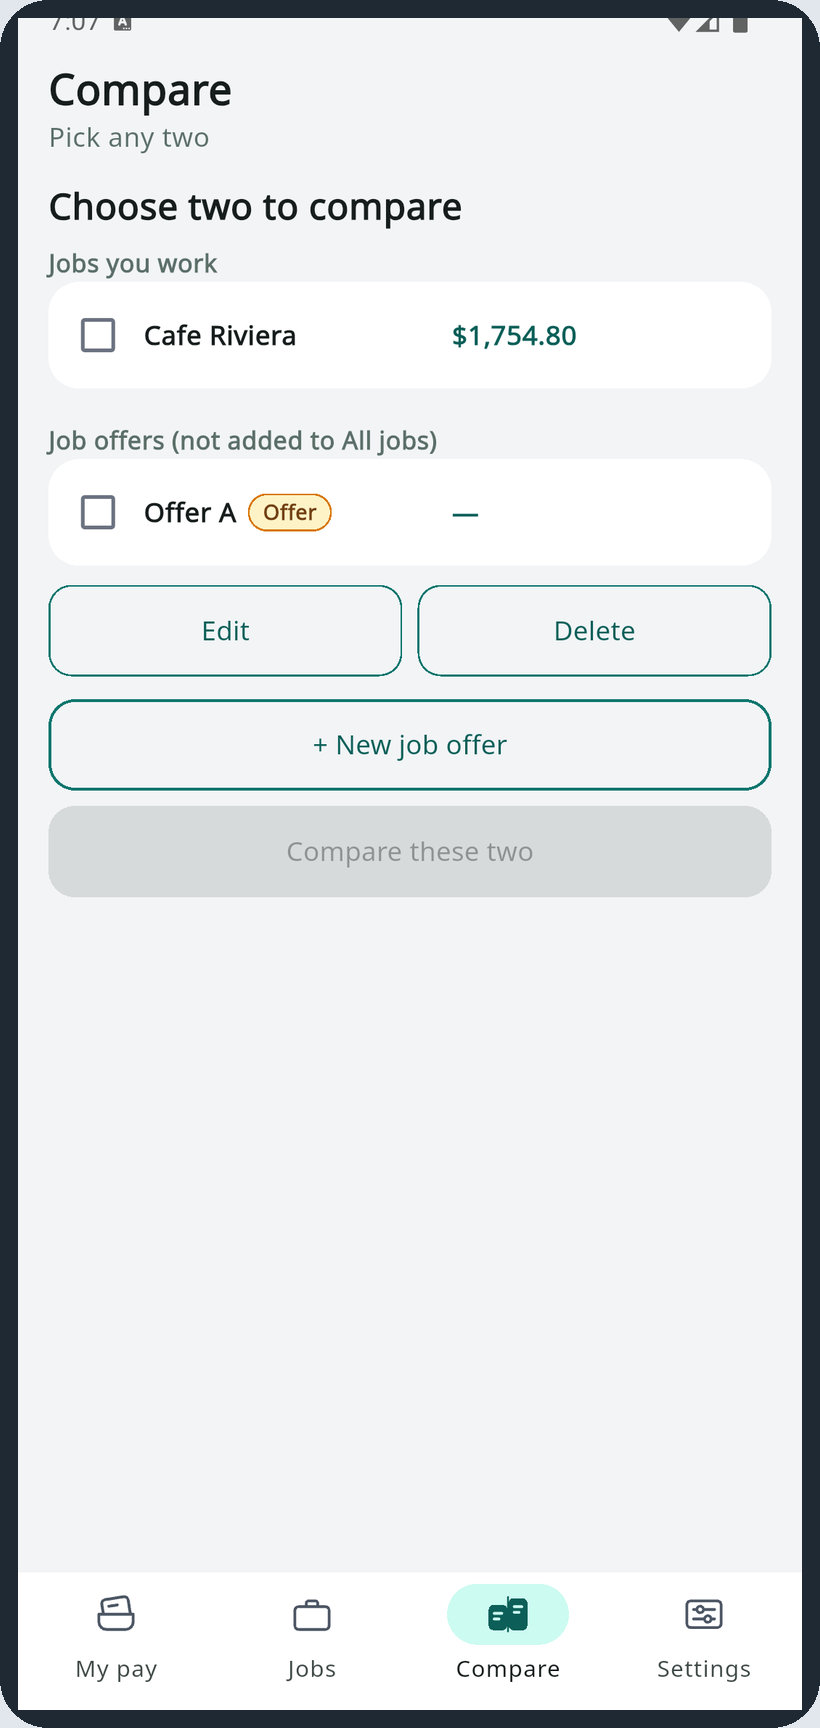
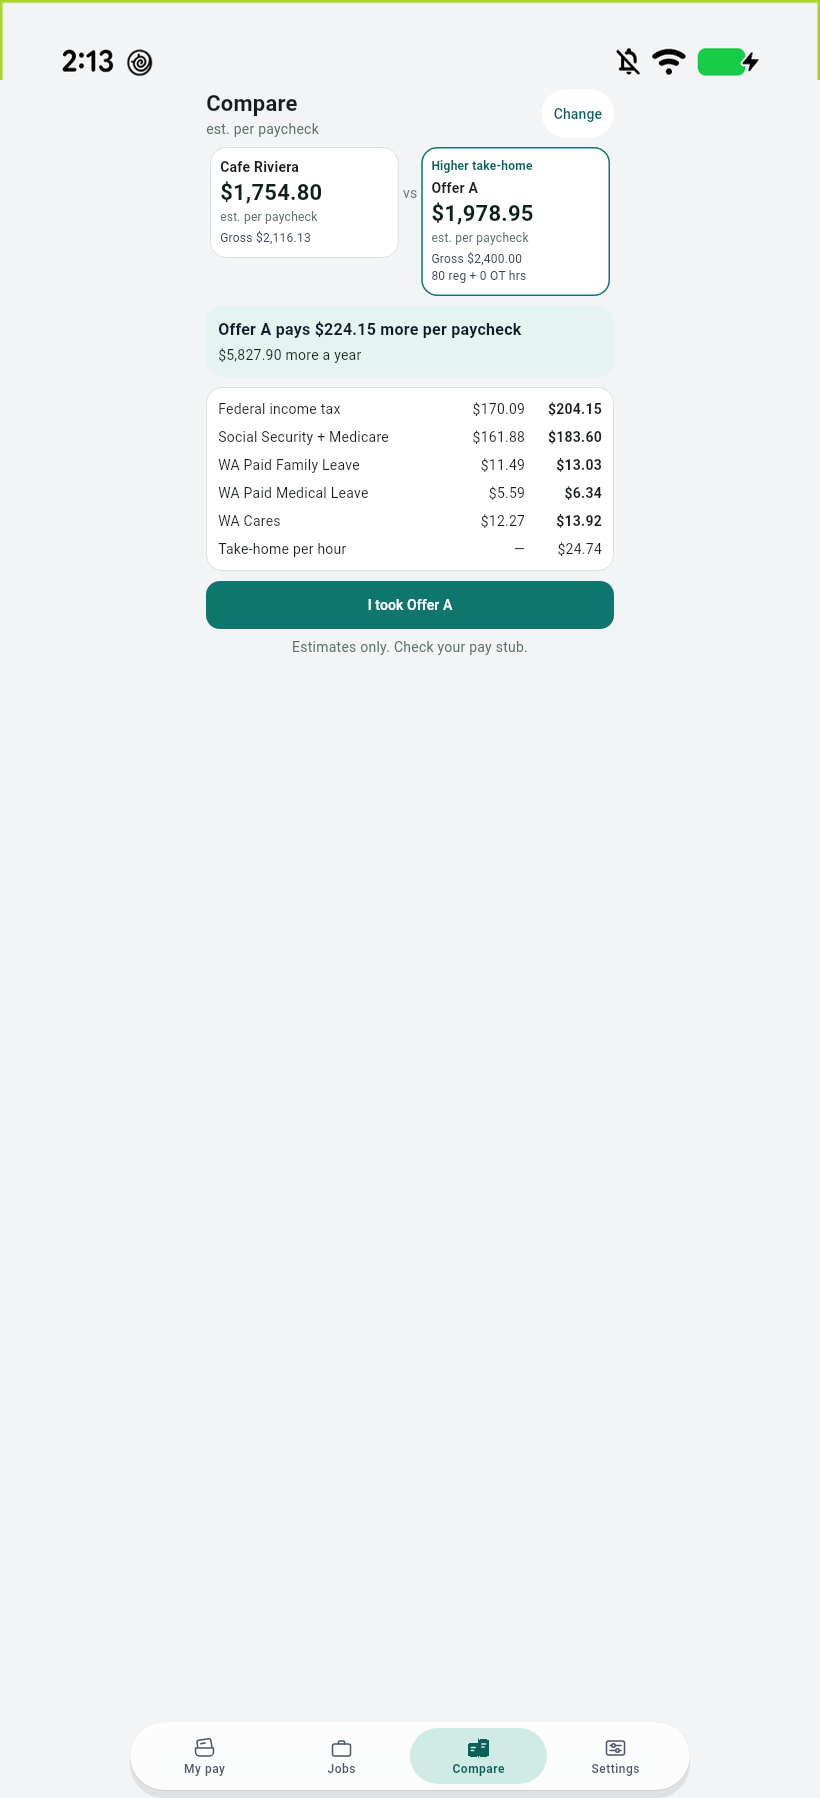
Give Compare its own spotlight and add a calculator button.
The lone Compare card sat in a leftover 3-column grid with a mint
icon tile. Turn it into a feature spotlight with a real Compare
capture from app main eb0f0a3, drop the unused pillar styles, and
add the same Try the free calculator button to the free-for-a-limited-time
band.

diff --git a/index.html b/index.html
@@ -8,7 +8,7 @@
 <meta name="description" content="Estimate your take-home pay for every job: hourly or salary, overtime, add-ons. US (all 50 states) and Australia. By Tun Labs." />
 <link rel="icon" type="image/svg+xml" href="assets/favicon.svg" />
 <link rel="icon" type="image/png" href="assets/icon.png" />
-<link rel="stylesheet" href="assets/apple.css?v=c7265b3c13" />
+<link rel="stylesheet" href="assets/apple.css?v=168256ac7d" />
 <script>if(location.hostname==="paycheckpocket.com"&&/\/index\.html$/i.test(location.pathname)){location.replace("/"+location.search+location.hash);}</script>
 </head>
 <body>
@@ -124,16 +124,14 @@
       </div>
     </section>
 
-    <section class="pillars">
-      <div class="wrap">
-        <h2>Built around how you get paid</h2>
-        <p class="lead">A few essentials — not a wall of feature cards.</p>
-        <div class="pillar-row">
-          <article class="pillar">
-            <div class="pillar-mark">⇄</div>
-            <h3>Compare offers</h3>
-            <p>Put two jobs or a new offer side by side and see which pays more per paycheck.</p>
-          </article>
+    <section class="spotlight flip">
+      <div class="wrap-wide spot-grid">
+        <div class="spot-shot">
+          <div class="phone phone-full"><div class="screen"><img src="assets/shot-compare.png" width="410" height="864" alt="Compare: Cafe Riviera and Offer A side by side, with Offer A showing a higher estimated take-home" /></div></div>
+        </div>
+        <div class="spot-copy">
+          <h2>Compare offers</h2>
+          <p>Put two jobs or a new offer side by side and see which pays more per paycheck.</p>
         </div>
       </div>
     </section>
@@ -142,6 +140,9 @@
       <div class="wrap">
         <div class="head">
           <h2>Free for a limited time. Every feature included.</h2>
+          <div class="pricing-cta">
+            <a class="btn-primary lg" href="app/">Try the free calculator</a>
+          </div>
         </div>
       </div>
     </section>

diff --git a/assets/apple.css b/assets/apple.css
@@ -472,61 +472,17 @@ button { font-family: inherit; }
   line-height: 1.42;
 }
 
-/* —— Quiet feature chips (home, sparse — not 8-card grid) —— */
-.pillars {
-  padding: 56px 0 24px;
-  text-align: center;
-}
-.pillars h2 {
-  margin: 0 auto 8px;
-  font-size: clamp(28px, 4vw, 40px);
-  letter-spacing: -0.025em;
-  font-weight: 700;
-  color: var(--ink);
-}
-.pillars .lead {
-  margin: 0 auto 40px;
-  color: var(--muted-strong);
-  font-size: 17px;
-  max-width: 32em;
-}
-.pillar-row {
-  display: grid;
-  gap: 28px;
-  text-align: left;
-}
-@media (min-width: 760px) {
-  .pillar-row { grid-template-columns: repeat(3, 1fr); gap: 36px; }
-}
-.pillar h3 {
-  margin: 0 0 8px;
-  font-size: 21px;
-  letter-spacing: -0.02em;
-  font-weight: 600;
-  color: var(--ink);
-}
-.pillar p {
-  margin: 0;
-  font-size: 15px;
-  line-height: 1.47;
-  color: var(--muted-strong);
-}
-.pillar-mark {
-  width: 36px; height: 36px;
-  border-radius: 10px;
-  background: var(--mint);
-  color: var(--teal-deep);
-  display: grid; place-items: center;
-  font-size: 16px; font-weight: 700;
-  margin-bottom: 14px;
-}
-
 /* —— Pricing quiet —— */
 .pricing {
   padding: 80px 0 64px;
   background: var(--bg-white);
 }
-.pricing .head { text-align: center; margin-bottom: 40px; }
+.pricing .head { text-align: center; margin-bottom: 0; }
+.pricing-cta {
+  display: flex;
+  justify-content: center;
+  margin-top: 24px;
+}
 .pricing .head h2 {
   margin: 0 0 8px;
   font-size: clamp(28px, 4vw, 40px);

diff --git a/app/index.html b/app/index.html
@@ -49,8 +49,8 @@
     }
   </script>
 
-  <!-- Site styles live one level up, at /assets/apple.css?v=c7265b3c13. -->
-  <link rel="stylesheet" href="../assets/apple.css?v=c7265b3c13">
+  <!-- Site styles live one level up, at /assets/apple.css?v=168256ac7d. -->
+  <link rel="stylesheet" href="../assets/apple.css?v=168256ac7d">
   <style>
     /* The calculator view fills this host. Desktop height is set from Flutter
        so the site header, page, and footer scroll as one document. */
@@ -69,7 +69,7 @@
       margin: 0;
       min-height: 100dvh;
     }
-    /* Phone: slim apple.css?v=c7265b3c13 header + hamburger; hide footer; Flutter fills the rest. */
+    /* Phone: slim apple.css?v=168256ac7d header + hamburger; hide footer; Flutter fills the rest. */
     @media (max-width: 899px) {
       footer { display: none !important; }
       html, body { height: 100%; overflow: hidden; }

diff --git a/contact/index.html b/contact/index.html
@@ -8,7 +8,7 @@
 <link rel="canonical" href="https://paycheckpocket.com/contact/" />
 <link rel="icon" type="image/svg+xml" href="../assets/favicon.svg" />
 <link rel="icon" type="image/png" href="../assets/icon.png" />
-<link rel="stylesheet" href="../assets/apple.css?v=c7265b3c13" />
+<link rel="stylesheet" href="../assets/apple.css?v=168256ac7d" />
 </head>
 <body>
   <header class="nav">

diff --git a/privacy/index.html b/privacy/index.html
@@ -8,7 +8,7 @@
 <link rel="canonical" href="https://paycheckpocket.com/privacy/" />
 <link rel="icon" type="image/svg+xml" href="../assets/favicon.svg" />
 <link rel="icon" type="image/png" href="../assets/icon.png" />
-<link rel="stylesheet" href="../assets/apple.css?v=c7265b3c13" />
+<link rel="stylesheet" href="../assets/apple.css?v=168256ac7d" />
 </head>
 <body>
   <header class="nav">

diff --git a/about/index.html b/about/index.html
@@ -8,7 +8,7 @@
 <link rel="canonical" href="https://paycheckpocket.com/about/" />
 <link rel="icon" type="image/svg+xml" href="../assets/favicon.svg" />
 <link rel="icon" type="image/png" href="../assets/icon.png" />
-<link rel="stylesheet" href="../assets/apple.css?v=c7265b3c13" />
+<link rel="stylesheet" href="../assets/apple.css?v=168256ac7d" />
 </head>
 <body>
   <header class="nav">

diff --git a/CODEMAP.md b/CODEMAP.md
@@ -10,7 +10,7 @@ GitHub Pages at paycheckpocket.com. The calculator at `/app/` is a rebuilt Flutt
 - `assets/apple.css` — locked site-apple-v1 tokens, frosted nav, Pixel phone frames, footer
 - `assets/nav.js` — phone hamburger (<860px)
 - `assets/pricing-region.js` — unused after the paid price grid was removed
-- `assets/shot-mypay-a.png`, `shot-mypay-b.png`, `shot-breakdown.png`, `shot-salary-form.png`, `shot-welcome.png` — current-app captures @ 820×1798 (Pixel status, ads off). Other `shot-*.png` unchanged.
+- `assets/shot-mypay-a.png`, `shot-mypay-b.png`, `shot-breakdown.png`, `shot-salary-form.png`, `shot-welcome.png`, `shot-compare.png` — current-app captures @ 820×1798 (Pixel status, ads off). Other `shot-*.png` unchanged.
 - Nav everywhere: Home, Calculator, About + CTA **Get the app** → Play. Footer labels: About, Privacy, Contact, Get the app, support email.
 
 ## Calculator host
